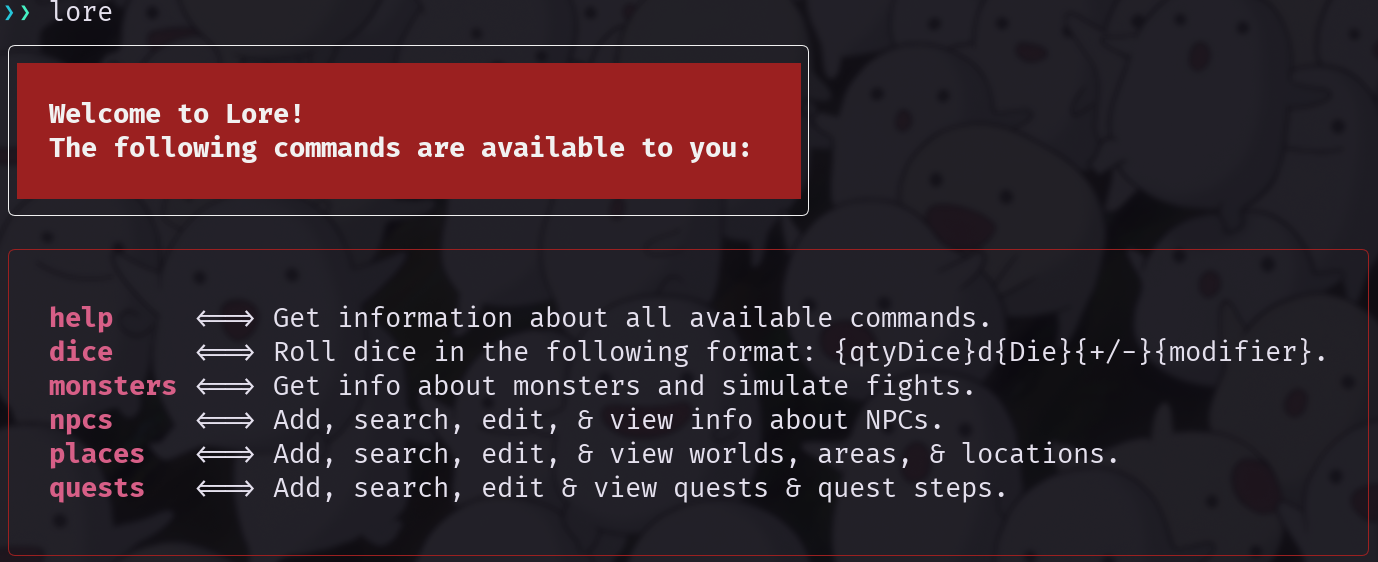
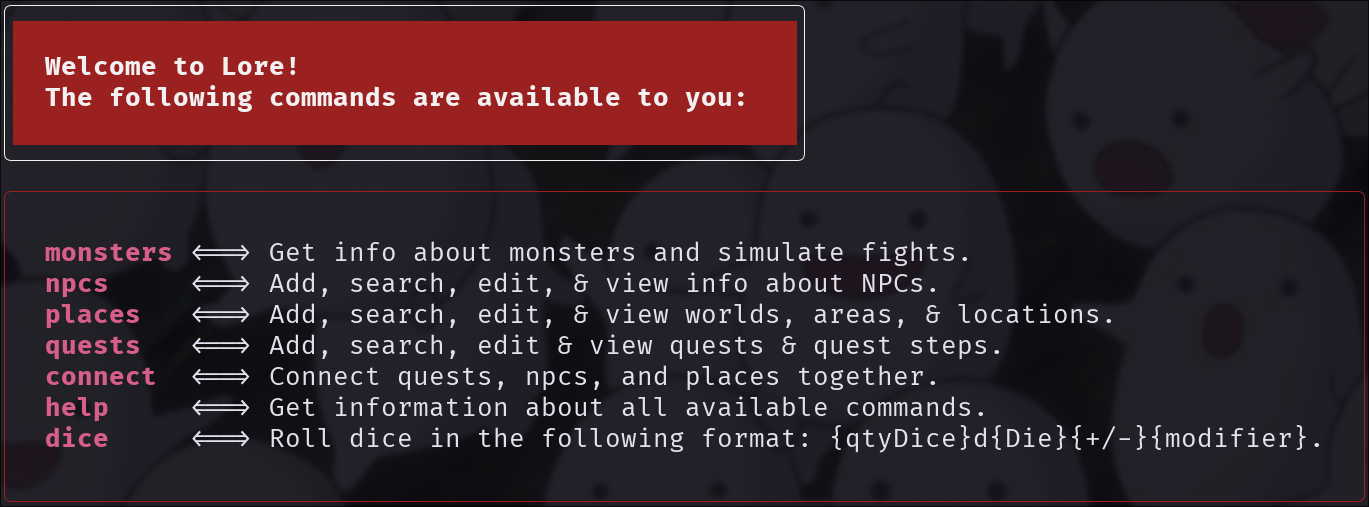
Update readme and fix help text

diff --git a/commands/command_places.go b/commands/command_places.go
@@ -654,24 +654,24 @@ func placesHelp() {
 	introTip := "Places subcommand information"
 	fmt.Println(header.Render(intro + introTip))
 	placeFlagIntro := bold.Render("Place Flags: ")
-	placeFlags := "--world, --area, --location, --sublocation"
+	placeFlags := "--world, --area, --location"
 	fmt.Println(placeFlagIntro + placeFlags)
-	add := bold.Render("  *** places <place flag> -a | ")
-	addMessage := "Add a new place. Must specifiy place flag."
+	add := bold.Render("  *** places <place flag> -a ")
+	addMessage := "| Add a new place. Must specifiy place flag."
 	fmt.Println(add + addMessage)
-	edit := bold.Render("  *** places <place flag> -e <name> | ")
-	editMessage := "Edit a place by name. Must specify place flag."
+	edit := bold.Render("  *** places <place flag> -e <name> ")
+	editMessage := "| Edit a place by name. Must specify place flag."
 	fmt.Println(edit + editMessage)
-	view := bold.Render("  *** places <place flag> -v <name> | ")
-	viewMessage := "View a place by name (case-insensitive)."
+	view := bold.Render("  *** places <place flag> -v <name> ")
+	viewMessage := "| View a place by name (case-insensitive)."
 	fmt.Println(view + viewMessage)
-	viewAll := bold.Render("  *** places <place-flag> -va | ")
-	viewAllMsg := "View all places by place-flag. Great for piping."
+	viewAll := bold.Render("  *** places <place-flag> -va ")
+	viewAllMsg := "| View all places by place-flag. Great for piping."
 	fmt.Println(viewAll + viewAllMsg)
-	delete := bold.Render("  *** places <place flag> -d <id> | ")
-	deleteMessage := "Delete a place by ID."
+	delete := bold.Render("  *** places <place flag> -d <id> ")
+	deleteMessage := "| Delete a place by ID."
 	fmt.Println(delete + deleteMessage)
-	search := bold.Render("  *** places -s <place flag> <name> | ")
-	searchMessage := "Searches the DB by place name returning all results.\n"
+	search := bold.Render("  *** places -s <place flag> <name> ")
+	searchMessage := "| Searches the DB by place name returning all results.\n"
 	fmt.Println(search + searchMessage)
 }

diff --git a/commands/command_dice.go b/commands/command_dice.go
@@ -12,7 +12,9 @@ func commandDice(s *State) error {
 	diceArgs := s.Args[1:]
 
 	if len(diceArgs) == 0 {
-		return fmt.Errorf("the dice command requires at least one argument")
+		fmt.Println(ErrorMsg.Render("the dice command requires at least one argument"))
+		diceHelp()
+		return nil
 	}
 
 	if len(diceArgs) == 1 && diceArgs[0] == "help" {
@@ -71,13 +73,13 @@ func diceHelp() {
 	intro := "Lore Dice Help\n"
 	introTip := "Dice subcommands information"
 	fmt.Println(header.Render(intro + introTip))
-	all := bold.Render("  *** dice -a <monster-1> <monster-2> | ")
-	allMessage := "Roll all the dice of an expression together returning the result."
+	all := bold.Render("  *** dice -a <monster-1> <monster-2> ")
+	allMessage := "| Roll all the dice of an expression together returning the result."
 	fmt.Println(all + allMessage)
-	individual := bold.Render("  *** dice -i <dice-expression> | ")
-	individualMessage := "Roll each die of an expression one at a time."
+	individual := bold.Render("  *** dice -i <dice-expression> ")
+	individualMessage := "| Roll each die of an expression one at a time."
 	fmt.Println(individual + individualMessage)
-	example := bold.Render("  *** Examples | ")
-	exampleMessage := "d20, 1d6, 2d12+1, 1d4-1, 3d6+8, 5d20+12, 80d100-50, etc.\n"
+	example := bold.Render("  *** Examples ")
+	exampleMessage := "| d20, 1d6, 2d12+1, 1d4-1, 3d6+8, 5d20+12, 80d100-50, etc.\n"
 	fmt.Println(example + exampleMessage)
 }

diff --git a/commands/command_npcs.go b/commands/command_npcs.go
@@ -119,20 +119,20 @@ func npcHelp() {
 	intro := "Lore Npc Help\n"
 	introTip := "NPCs subcommand information"
 	fmt.Println(header.Render(intro + introTip))
-	add := bold.Render("  *** npcs -a | ")
-	addMessage := "Add a new npc by name."
+	add := bold.Render("  *** npcs -a ")
+	addMessage := "| Add a new npc by name."
 	fmt.Println(add + addMessage)
-	edit := bold.Render("  *** npcs -e <npc-name> | ")
-	editMessage := "Edit an NPC by name."
+	edit := bold.Render("  *** npcs -e <npc-name> ")
+	editMessage := "| Edit an NPC by name."
 	fmt.Println(edit + editMessage)
-	delete := bold.Render("  *** npcs -d <npc-id> | ")
-	deleteMsg := "Delete an NPC by ID."
+	delete := bold.Render("  *** npcs -d <npc-id> ")
+	deleteMsg := "| Delete an NPC by ID."
 	fmt.Println(delete + deleteMsg)
-	search := bold.Render("  *** npcs -s <npc-name> | ")
-	searchMessage := "Searches the DB by NPC name returning all results."
+	search := bold.Render("  *** npcs -s <npc-name> ")
+	searchMessage := "| Searches the DB by NPC name returning all results."
 	fmt.Println(search + searchMessage)
-	view := bold.Render("  *** npcs -v <npc-name> | ")
-	viewMessage := "View an NPC by name (case-insensitive).\n"
+	view := bold.Render("  *** npcs -v <npc-name> ")
+	viewMessage := "| View an NPC by name (case-insensitive).\n"
 	fmt.Println(view + viewMessage)
 }
 

diff --git a/commands/command_quests.go b/commands/command_quests.go
@@ -406,19 +406,19 @@ func questsHelp() {
 	intro := "Lore Quests Help\n"
 	introTip := "Quests subcommand information"
 	fmt.Println(header.Render(intro + introTip))
-	add := bold.Render("  *** quests -a | ")
-	addMessage := "Add a new quest."
+	add := bold.Render("  *** quests -a ")
+	addMessage := "| Add a new quest."
 	fmt.Println(add + addMessage)
-	edit := bold.Render("  *** quests -e <id> | ")
-	editMessage := "Edit a place by integer ID."
+	edit := bold.Render("  *** quests -e <id> ")
+	editMessage := "| Edit a place by integer ID."
 	fmt.Println(edit + editMessage)
-	view := bold.Render("  *** quests -v <id> | ")
-	viewMessage := "View a quest by integer ID."
+	view := bold.Render("  *** quests -v <id> ")
+	viewMessage := "| View a quest by integer ID."
 	fmt.Println(view + viewMessage)
-	delete := bold.Render("  *** quests -d <id> | ")
-	deleteMessage := "Delete a quest by ID."
+	delete := bold.Render("  *** quests -d <id> ")
+	deleteMessage := "| Delete a quest by ID."
 	fmt.Println(delete + deleteMessage)
-	search := bold.Render("  *** quests -s <name> | ")
-	searchMessage := "Searches the DB by quest name returning all results.\n"
+	search := bold.Render("  *** quests -s <name> ")
+	searchMessage := "| Searches the DB by quest name returning all results.\n"
 	fmt.Println(search + searchMessage)
 }

diff --git a/commands/command_monsters.go b/commands/command_monsters.go
@@ -50,14 +50,14 @@ func monstersHelp() {
 	intro := "Lore Monsters Help\n"
 	introTip := "Monsters subcommands information"
 	fmt.Println(header.Render(intro + introTip))
-	inspect := bold.Render("  *** monsters -i <monster-name> | ")
-	inspectMessage := "Inspect information about specific monster."
+	inspect := bold.Render("  *** monsters -i <monster-name> ")
+	inspectMessage := "| Inspect information about specific monster."
 	fmt.Println(inspect + inspectMessage)
-	fight := bold.Render("  *** monsters -f <monster-1> <monster-2> | ")
-	fightMessage := "Simulate a fight between monsters."
+	fight := bold.Render("  *** monsters -f <monster-1> <monster-2> ")
+	fightMessage := "| Simulate a fight between monsters."
 	fmt.Println(fight + fightMessage)
-	view := bold.Render("  *** monsters -v | ")
-	viewMessage := "View all monsters. Pipe into grep for a good time!\n"
+	view := bold.Render("  *** monsters -va ")
+	viewMessage := "| View all monsters. Pipe into grep for a good time!\n"
 	fmt.Println(view + viewMessage)
 }
 

diff --git a/commands/command_connect.go b/commands/command_connect.go
@@ -28,7 +28,7 @@ func commandConnect(s *State) error {
 
 	// Break out if user did not provide enough flags.
 	if len(args) != 2 {
-		fmt.Println("Places command requires exactly 2 arguments!")
+		fmt.Println("Connect command requires exactly 2 arguments!")
 		connectHelp()
 		return nil
 	}
@@ -348,6 +348,14 @@ func connectHelp() {
 	intro := "Lore Connect Help\n"
 	introTip := "Connect subcommand information"
 	fmt.Println(header.Render(intro + introTip))
+
+	npc := bold.Render("  *** connect --npc=<id> --{quest|place-type}=<id> ")
+	npcMessage := "| Connect an NPC to a quest or place by IDs."
+	fmt.Println(npc + npcMessage)
+
+	quest := bold.Render("  *** connect --quest=<id> --{npc|place-type}=<id> ")
+	questMessage := "| Connect a quest to an NPC or place by IDs."
+	fmt.Println(quest + questMessage)
 }
 
 func printNameAndId(name string, id, i, length int) {

diff --git a/commands/command.go b/commands/command.go
@@ -26,7 +26,7 @@ func BuildCommands() map[string]Command {
 		},
 		"dice": {
 			Name:        "dice",
-			Description: "Roll dice in the following format: {qtyDice}d{Die}{+/-}{modifier}.",
+			Description: "Roll dice in the following format: {qty}d{Die}{+/-}{modifier}.",
 			Callback:    commandDice,
 		},
 		"monsters": {

diff --git a/README.md b/README.md
@@ -97,6 +97,15 @@ View, search, edit, and create custom places for your campaign.
 - --location | Locations contained within areas.
 - --sublocation | Not implemented! Not sure if necessary or overkill?
 
+### **connect**
+
+Connect NPCs to quests/places and Quests to npcs/places.
+
+-- **--npc=<id> --{quest|place-type}=<id>** | Connect an npc to a quest/place.
+-- **--quest=<id> --{npc|place-type}=<id>** | Connect a quest to an npc/place.
+
+These connections will become visible
+
 ## Roadmap
 
 While not set in stone, hitting a true v1.0.0 will include:
@@ -104,10 +113,10 @@ While not set in stone, hitting a true v1.0.0 will include:
 - [x] ~~Dice Rolls~~
 - - ~~`lore dice <dice-arg>` allowing for dynamic dice rolls!~~
 - - - ~~For example `lore dice 2d6+1` rolls two six-sided die and adds one!~~
-- [ ] Quests
+- [x] ~~Quests~~
 - - [x] ~~Write quests.~~
-- - [ ] Attach NPCs to quests
-- - [ ] Attach places to quests?
+- - [x] ~~Attach NPCs to quests~~
+- - [x] ~~Attach places to quests?~~
 - [ ] History/Events
 - - The final shape isn't decided, but historical events can be important.
 - [ ] Players
